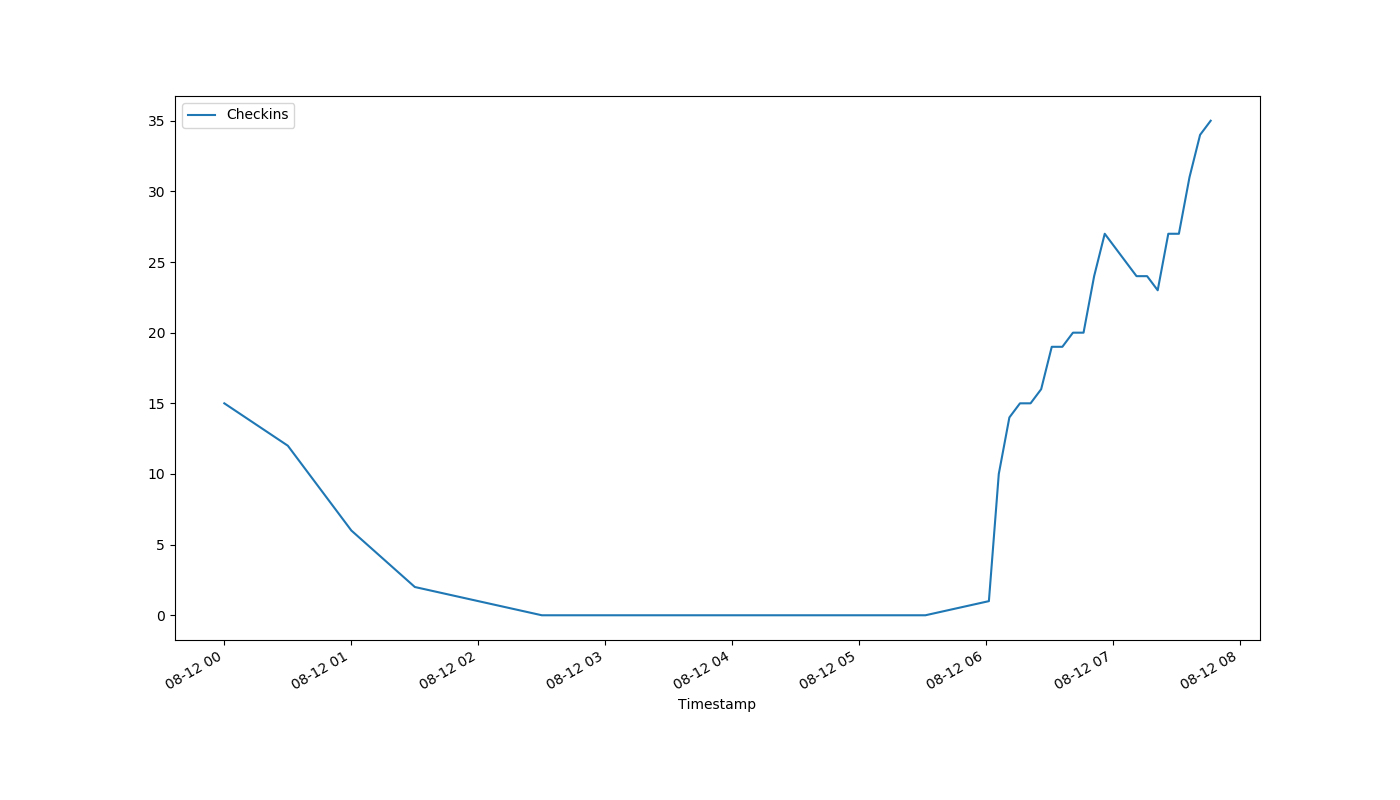
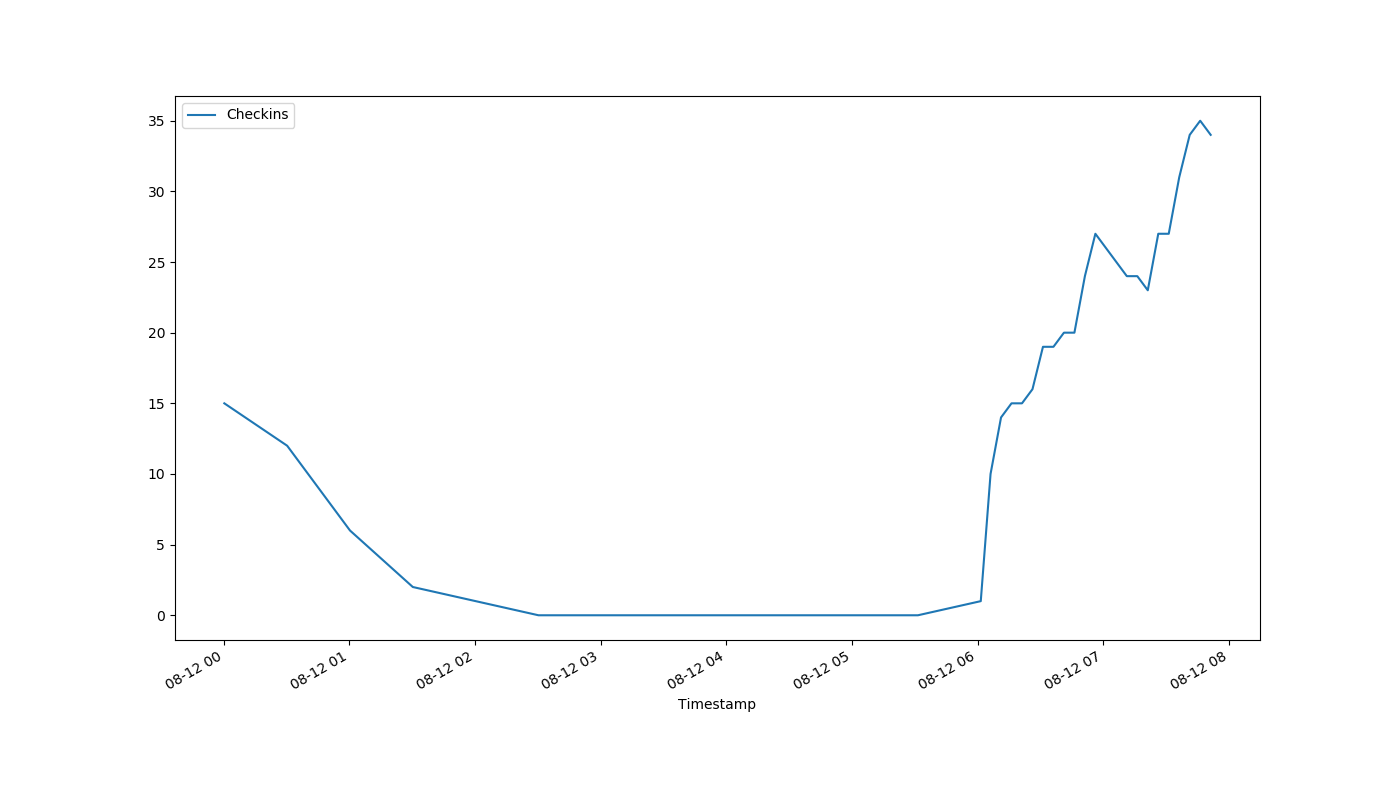
auto-Aug-12-07:53:24

diff --git a/index.html b/index.html
@@ -1,1 +1,1 @@
-<!DOCTYPE html><html><head><meta http-equiv="refresh" content="30"><link rel='stylesheet' href='holmcurrent.css'></head><body><p id='count'>35</p><div id='graph-wrap'><img id='graph' src='holmgraph-Aug-12.png'></div><p id='updated'>Last updated 07:47:14 / 07:46:17</p></body></html>
+<!DOCTYPE html><html><head><meta http-equiv="refresh" content="30"><link rel='stylesheet' href='holmcurrent.css'></head><body><p id='count'>34</p><div id='graph-wrap'><img id='graph' src='holmgraph-Aug-12.png'></div><p id='updated'>Last updated 07:52:14 / 07:51:17</p></body></html>
